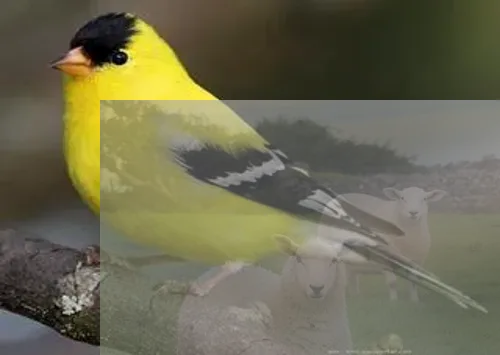
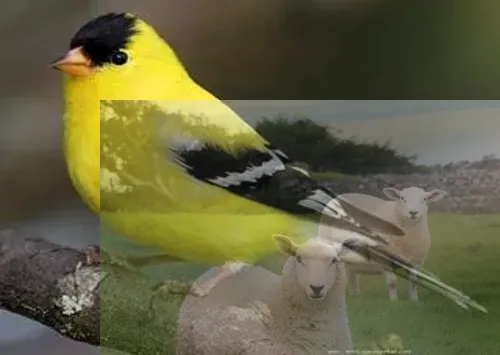
:bug: Fix bug upload fusion

diff --git a/src/django/traitement_images/utils.py b/src/django/traitement_images/utils.py
@@ -94,15 +94,19 @@ def merge_images(image_path1, image_path2, ratio, position1, position2):
     if image2.mode != 'RGBA':
         image2 = image2.convert('RGBA')
 
+    # Créer une nouvelle image vierge avec la taille de l'image 1
     new_image = Image.new('RGBA', image1.size)
 
+    # Coller l'image 1 à la position spécifiée par position1
     new_image.paste(image1, position1)
 
-    blended_image = Image.blend(Image.new('RGBA', image2.size), image2, ratio)
+    # Coller l'image fusionnée à la position spécifiée par position2
+    new_image.paste(image2, position2)
 
-    new_image.paste(blended_image, position2, blended_image)
+    # Fusionner les images
+    blended_image = Image.blend(new_image, image1, ratio)
 
-    return new_image
+    return blended_image
     
 
 def animate_images(image_paths, output_file, fps=24, slowdown_factor=20):
